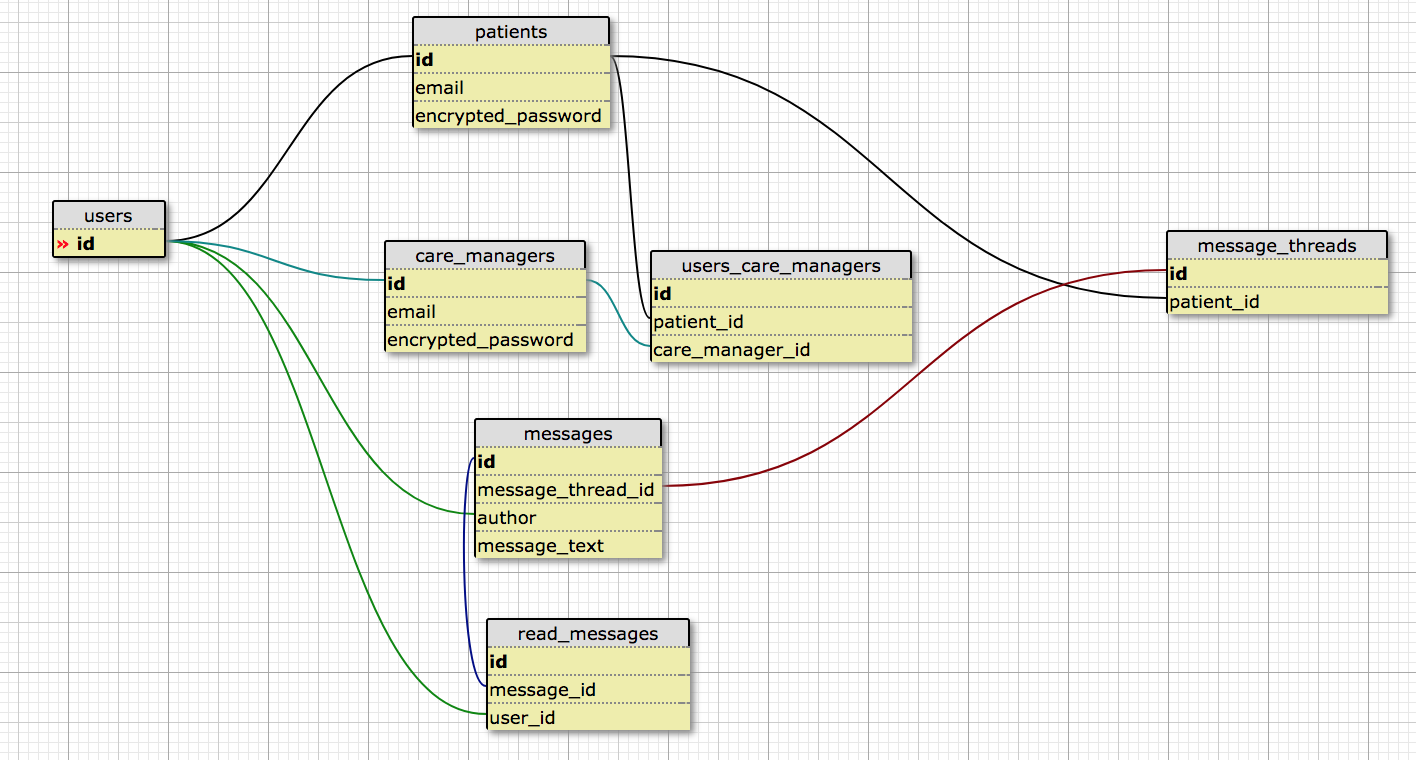
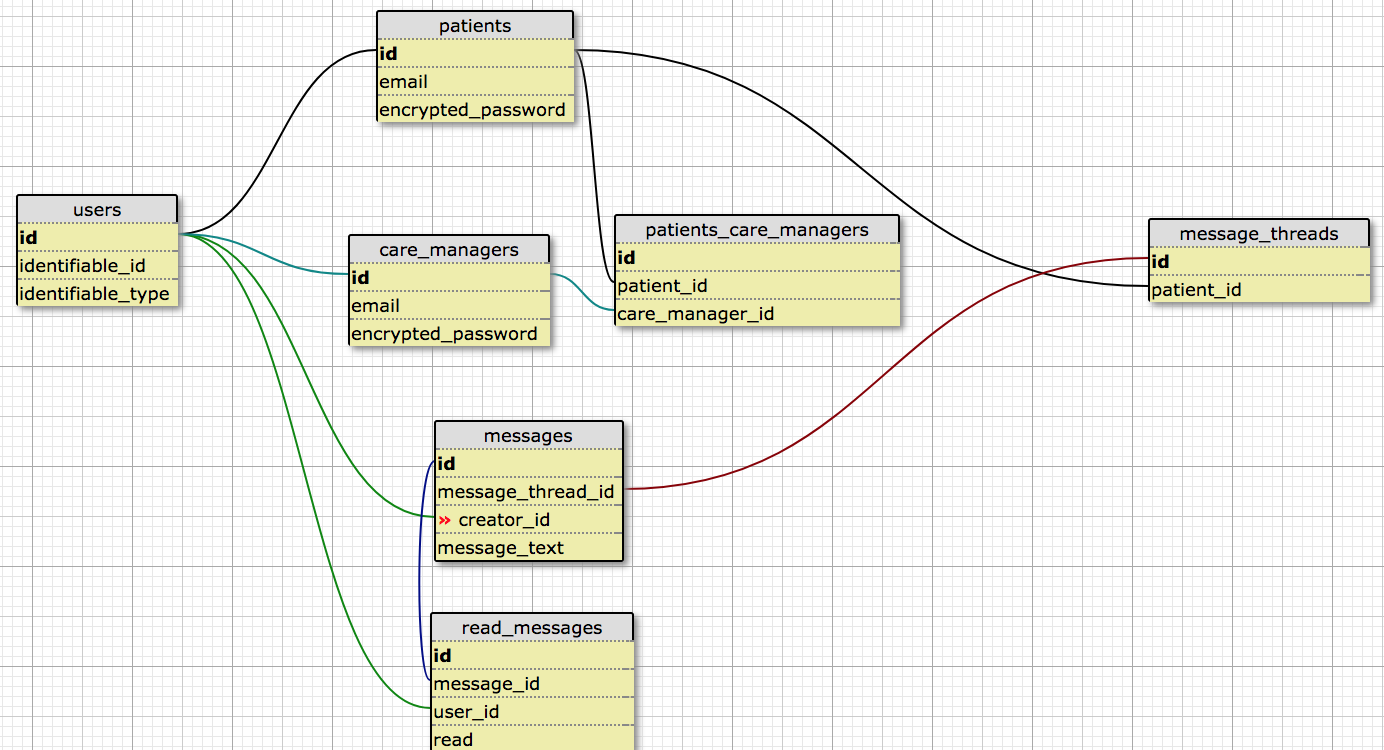
finished associations, controllers, views, and routes

diff --git a/app/assets/stylesheets/messages.scss b/app/assets/stylesheets/messages.scss
@@ -1,0 +1,3 @@
+// Place all the styles related to the Messages controller here.
+// They will automatically be included in application.css.
+// You can use Sass (SCSS) here: http://sass-lang.com/

diff --git a/db/seeds.rb b/db/seeds.rb
@@ -1,14 +1,61 @@
-# This file should contain all the record creation needed to seed the database with its default values.
-# The data can then be loaded with the rails db:seed command (or created alongside the database with db:setup).
-#
-# Examples:
-#
-#   movies = Movie.create([{ name: 'Star Wars' }, { name: 'Lord of the Rings' }])
-#   Character.create(name: 'Luke', movie: movies.first)
+@doctor1 = CareManager.create(email: "doc1@gmail.com", password: "password")
+@doctor2 = CareManager.create(email: "doc2@gmail.com", password: "password")
+@doctor3 = CareManager.create(email: "doc3@gmail.com", password: "password")
+@doctor4 = CareManager.create(email: "doc4@gmail.com", password: "password")
 
-@doctor1 = CareManager.create(email: "mattbehan@gmail.com", password: "password")
+@patient1 = Patient.create(email: "patient1@gmail.com", password: "password")
+@patient2 = Patient.create(email: "patient2@gmail.com", password: "password")
+@patient3 = Patient.create(email: "patient3@gmail.com", password: "password")
+@patient4 = Patient.create(email: "patient4@gmail.com", password: "password")
 
-@patient1 = Patient.create(email: "mattbehan1@gmail.com", password: "password")
-@patient2 = Patient.create(email: "mattbehan2@gmail.com", password: "password")
-@patient3 = Patient.create(email: "mattbehan3@gmail.com", password: "password")
-@patient4 = Patient.create(email: "mattbehan4@gmail.com", password: "password")
+PatientsCareManager.create(patient_id: 1, care_manager_id: 1)
+PatientsCareManager.create(patient_id: 1, care_manager_id: 2)
+PatientsCareManager.create(patient_id: 1, care_manager_id: 3)
+
+PatientsCareManager.create(patient_id: 2, care_manager_id: 2)
+PatientsCareManager.create(patient_id: 2, care_manager_id: 3)
+PatientsCareManager.create(patient_id: 2, care_manager_id: 4)
+
+PatientsCareManager.create(patient_id: 3, care_manager_id: 1)
+PatientsCareManager.create(patient_id: 3, care_manager_id: 2)
+PatientsCareManager.create(patient_id: 3, care_manager_id: 3)
+PatientsCareManager.create(patient_id: 3, care_manager_id: 4)
+
+PatientsCareManager.create(patient_id: 4, care_manager_id: 1)
+PatientsCareManager.create(patient_id: 4, care_manager_id: 4)
+
+
+@doctor1 = CareManager.first.user
+@doctor2 = CareManager.second.user
+@doctor3 = CareManager.third.user
+@doctor4 = CareManager.fourth.user
+
+@patient1 = Patient.first.user
+@patient2 = Patient.second.user
+@patient3 = Patient.third.user
+@patient4 = Patient.fourth.user
+
+@message_thread_1 = MessageThread.first
+@message_thread_2 = MessageThread.second
+@message_thread_3 = MessageThread.third
+@message_thread_4 = MessageThread.fourth
+
+@message1 = Message.create(message_thread_id: @message_thread_1.id, creator_id: @doctor2.id, message_text: "first message in thread -- from doctor2")
+@message2 = Message.create(message_thread_id: @message_thread_1.id, creator_id: @doctor3.id, message_text: "second message in thread -- from doctor3")
+@message3 = Message.create(message_thread_id: @message_thread_1.id, creator_id: @doctor1.id, message_text: "third message in thread -- from doctor1")
+@message4 = Message.create(message_thread_id: @message_thread_1.id, creator_id: @doctor2.id, message_text: "second message in thread -- from doctor2")
+@message5 = Message.create(message_thread_id: @message_thread_1.id, creator_id: @doctor3.id, message_text: "second message in thread -- from doctor3")
+@message6 = Message.create(message_thread_id: @message_thread_1.id, creator_id: @doctor2.id, message_text: "second message in thread -- from doctor2")
+
+@message7 = Message.create(message_thread_id: @message_thread_2.id, creator_id: @doctor3.id, message_text: "second message in thread -- from doctor3")
+@message8 = Message.create(message_thread_id: @message_thread_2.id, creator_id: @doctor2.id, message_text: "second message in thread -- from doctor2")
+@message9 = Message.create(message_thread_id: @message_thread_2.id, creator_id: @doctor4.id, message_text: "second message in thread -- from doctor4")
+
+@message10 = Message.create(message_thread_id: @message_thread_3.id, creator_id: @doctor1.id, message_text: "second message in thread -- from doctor1")
+@message11 = Message.create(message_thread_id: @message_thread_3.id, creator_id: @doctor1.id, message_text: "second message in thread -- from doctor1")
+@message12 = Message.create(message_thread_id: @message_thread_3.id, creator_id: @doctor2.id, message_text: "second message in thread -- from doctor2")
+@message13 = Message.create(message_thread_id: @message_thread_3.id, creator_id: @doctor2.id, message_text: "second message in thread -- from doctor2")
+@message14 = Message.create(message_thread_id: @message_thread_3.id, creator_id: @doctor4.id, message_text: "second message in thread -- from doctor4")
+
+@message13 = Message.create(message_thread_id: @message_thread_4.id, creator_id: @doctor1.id, message_text: "second message in thread -- from doctor1")
+@message14 = Message.create(message_thread_id: @message_thread_4.id, creator_id: @doctor4.id, message_text: "second message in thread -- from doctor4")

diff --git a/db/schema.rb b/db/schema.rb
@@ -10,7 +10,7 @@
 #
 # It's strongly recommended that you check this file into your version control system.
 
-ActiveRecord::Schema.define(version: 20171218011741) do
+ActiveRecord::Schema.define(version: 20171218025624) do
 
   # These are extensions that must be enabled in order to support this database
   enable_extension "plpgsql"
@@ -33,22 +33,19 @@ ActiveRecord::Schema.define(version: 20171218011741) do
   end
 
   create_table "message_threads", force: :cascade do |t|
-    t.integer "provider_id", null: false
     t.integer "patient_id", null: false
     t.datetime "created_at", null: false
     t.datetime "updated_at", null: false
     t.index ["patient_id"], name: "index_message_threads_on_patient_id"
-    t.index ["provider_id"], name: "index_message_threads_on_provider_id"
   end
 
   create_table "messages", force: :cascade do |t|
-    t.bigint "message_thread_id", null: false
-    t.integer "author", null: false
+    t.integer "message_thread_id", null: false
+    t.integer "creator_id", null: false
     t.text "message_text", null: false
-    t.boolean "read_by_recipient", default: false
     t.datetime "created_at", null: false
     t.datetime "updated_at", null: false
-    t.index ["author"], name: "index_messages_on_author"
+    t.index ["creator_id"], name: "index_messages_on_creator_id"
     t.index ["message_thread_id"], name: "index_messages_on_message_thread_id"
   end
 
@@ -69,9 +66,31 @@ ActiveRecord::Schema.define(version: 20171218011741) do
     t.index ["reset_password_token"], name: "index_patients_on_reset_password_token", unique: true
   end
 
-  create_table "users", force: :cascade do |t|
+  create_table "patients_care_managers", force: :cascade do |t|
+    t.integer "patient_id", null: false
+    t.integer "care_manager_id", null: false
     t.datetime "created_at", null: false
     t.datetime "updated_at", null: false
+    t.index ["care_manager_id"], name: "index_patients_care_managers_on_care_manager_id"
+    t.index ["patient_id"], name: "index_patients_care_managers_on_patient_id"
+  end
+
+  create_table "read_messages", force: :cascade do |t|
+    t.integer "message_id", null: false
+    t.integer "user_id", null: false
+    t.boolean "read", default: false
+    t.datetime "created_at", null: false
+    t.datetime "updated_at", null: false
+    t.index ["message_id"], name: "index_read_messages_on_message_id"
+    t.index ["user_id"], name: "index_read_messages_on_user_id"
+  end
+
+  create_table "users", force: :cascade do |t|
+    t.string "identifiable_type"
+    t.bigint "identifiable_id"
+    t.datetime "created_at", null: false
+    t.datetime "updated_at", null: false
+    t.index ["identifiable_type", "identifiable_id"], name: "index_users_on_identifiable_type_and_identifiable_id"
   end
 
 end

diff --git a/app/models/care_manager.rb b/app/models/care_manager.rb
@@ -5,7 +5,24 @@ class CareManager < ApplicationRecord
          :recoverable, :rememberable, :trackable, :validatable
 
   after_create {
-  	@user = User.create()
-  	self.update_column(:id, @user.id)
+  	@user = User.create(identifiable_id: self.id, identifiable_type: "CareManager")
   }
+
+  before_destroy {
+  	self.user.destroy
+  }
+
+  has_one :user, as: :identifiable
+  has_many :patients_care_managers, inverse_of: :care_manager
+  has_many :patients, through: :patients_care_managers
+  has_many :message_threads, through: :patients
+  has_many :read_messages, through: :user
+  has_many :messages, through: :user
+
+  def unread_messages_in_message_thread (thread_id)
+  	@user_id = user.id
+  	Message.where(message_thread_id: thread_id).select{|message| ReadMessage.find_by(message_id: message.id, user_id: @user_id).read == false}.count
+
+  end
+
 end

diff --git a/app/models/message.rb b/app/models/message.rb
@@ -1,8 +1,19 @@
 class Message < ApplicationRecord
 
-	belongs_to :message_thread
-	belongs_to :author, class_name: "User", foreign_key: "author_id"
+  after_create {
+  	@thread_participants = message_thread.thread_participants.map{|participant| ReadMessage.create(message_id: self.id, user_id: participant.id)}
+  	ReadMessage.find_by(message_id: self.id, user_id: self.creator_id).update_column(:read, true)
+  }
 
-	validates :message_thread_id, :author, :message_text, :read_by_recipient, presence: true
+	belongs_to :message_thread
+	belongs_to :creator, class_name: "User"
+	has_many :read_messages, inverse_of: :message
+
+	def author
+		creator.identifiable.email
+	end
+
+
+	validates :message_thread_id, :creator_id, :message_text, presence: true
 
 end

diff --git a/app/models/message_thread.rb b/app/models/message_thread.rb
@@ -1,5 +1,21 @@
 class MessageThread < ApplicationRecord
 
-	belongs_to :provider, class_name: "User", foreign_key: "provider_id"
-	has_many :messages
+	belongs_to :patient
+	has_many :patients_care_managers, through: :patient
+	has_many :care_managers, through: :patients_care_managers
+	has_many :messages, inverse_of: :message_thread
+	has_many :read_messages, through: :messages do 
+		def per_user user_id
+			where(user_id: user_id)
+		end
+	end
+
+	def thread_participants
+		@users = care_managers.map{|care_manager| care_manager.user}
+		@users << patient.user
+	end
+
+	def mark_users_thread_as_read user_id
+		read_messages.per_user(user_id).map{|read_message| read_message.mark_as_read }
+	end
 end

diff --git a/app/models/patient.rb b/app/models/patient.rb
@@ -5,7 +5,21 @@ class Patient < ApplicationRecord
          :recoverable, :rememberable, :trackable, :validatable
 
   after_create {
-  	@user = User.create()
-  	self.update_column(:id, @user.id)
+  	@user = User.create(identifiable_id: self.id, identifiable_type: "Patient")
+    @message_thread = MessageThread.create(patient_id: self.id)
   }
+
+  before_destroy {
+    self.user.destroy
+  }
+
+  has_one :user, as: :identifiable  
+  has_many :patients_care_managers, inverse_of: :patient
+  has_many :care_managers, through: :patients_care_managers
+  has_one :message_thread
+  has_many :read_messages, through: :user
+  has_many :messages, through: :user
+
+
+
 end

diff --git a/app/controllers/messages_controller.rb b/app/controllers/messages_controller.rb
@@ -1,0 +1,16 @@
+class MessagesController < ApplicationController
+	def index
+		@message = Message.new
+		@messages = Message.where(message_thread_id: params[:message_thread_id])
+	end
+
+	def create
+		@message = Message.new(creator_id: current_user.id, message_thread_id: params[:message_thread_id], message_text: params[:message][:message_text])
+		if @message.save
+			redirect_to message_thread_messages_path(params[:message_thread_id])
+		else
+			flash[:errors] = "Please input text"
+			redirect_to message_thread_messages_path(params[:message_thread_id])
+		end
+	end
+end

diff --git a/app/controllers/patients/registrations_controller.rb b/app/controllers/patients/registrations_controller.rb
@@ -1,6 +1,14 @@
 class Patients::RegistrationsController < Devise::RegistrationsController
-  include Accessible
-  # before_action :configure_sign_up_params, only: [:create]
+before_action :check_patient
+
+
+  def check_patient
+    if !current_patient
+      flash.clear
+      # if you have rails_admin. You can redirect anywhere really
+      redirect_to("/message_threads") && return
+    end
+  end  # before_action :configure_sign_up_params, only: [:create]
   # before_action :configure_account_update_params, only: [:update]
 
   # GET /resource/sign_up

diff --git a/app/controllers/care_managers/registrations_controller.rb b/app/controllers/care_managers/registrations_controller.rb
@@ -1,5 +1,14 @@
 class CareManagers::RegistrationsController < Devise::RegistrationsController
-  include Accessible
+before_action :check_care_manager
+
+
+  def check_care_manager
+    if !current_care_manager
+      flash.clear
+      # if you have rails_admin. You can redirect anywhere really
+      redirect_to("/message_threads") && return
+    end
+  end
   # before_action :configure_sign_up_params, only: [:create]
   # before_action :configure_account_update_params, only: [:update]
 

diff --git a/config/routes.rb b/config/routes.rb
@@ -5,6 +5,8 @@ root 'message_threads#index'
 devise_for :patients, path: 'patients', controllers: { sessions: "patients/sessions", registrations: "patients/registrations"}
 devise_for :care_managers, path: 'care_managers', controllers: { sessions: "care_managers/sessions", registrations: "care_managers/registrations"}
 
-resources :message_threads, only: [:index]
+resources :message_threads, only: [:index, :update] do
+	resources :messages, only: [:index, :create]
+end
 
 end

diff --git a/db/migrate/20171216210707_create_messages.rb b/db/migrate/20171216210707_create_messages.rb
@@ -2,10 +2,9 @@ class CreateMessages < ActiveRecord::Migration[5.1]
   def change
     create_table :messages do |t|
 
-    	t.references :message_thread, index: true, null: false
-    	t.integer :author, index: true, null: false
+    	t.integer :message_thread_id, index: true, null: false
+    	t.integer :creator_id, index: true, null: false
     	t.text :message_text, null: false
-    	t.boolean :read_by_recipient, default: false
 
       t.timestamps
     end
